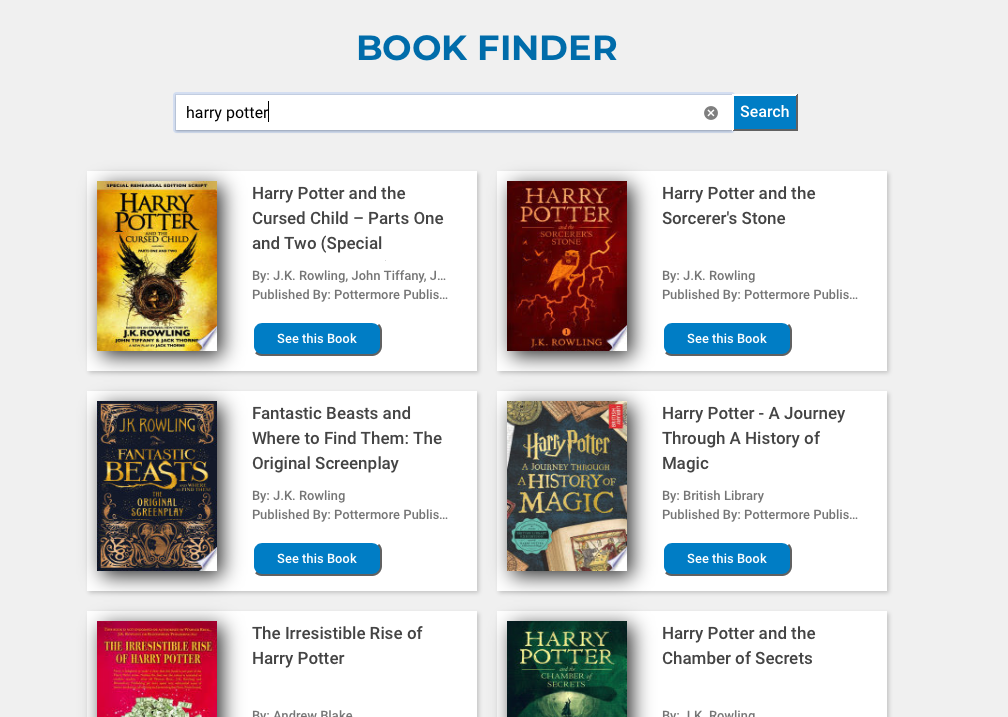
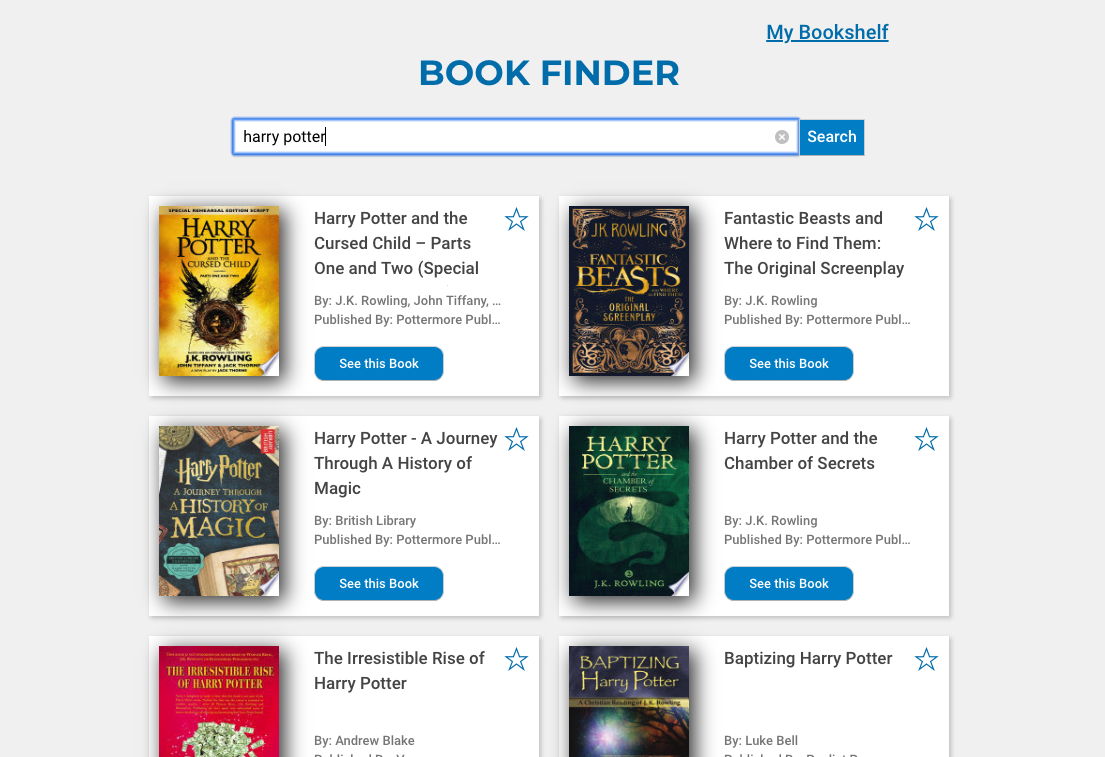
Update book finder project

diff --git a/js/projects_data.js b/js/projects_data.js
@@ -4,7 +4,7 @@ const projects = {
 		name: 'Book Finder',
 		image: 'img/Book_Finder.png',
 		link: 'https://github.com/welcomeying/book-finder',
-		skills: ['REACT', 'Google Books API']
+		skills: ['REACT', 'Google Books API', 'LOCAL STORAGE']
 	},
 	{
 		name: 'JavaScript Calculator',
